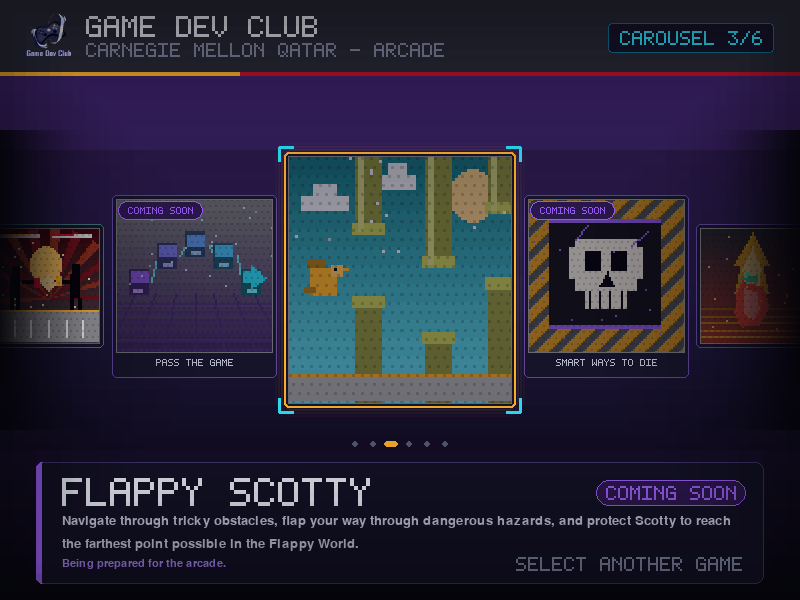
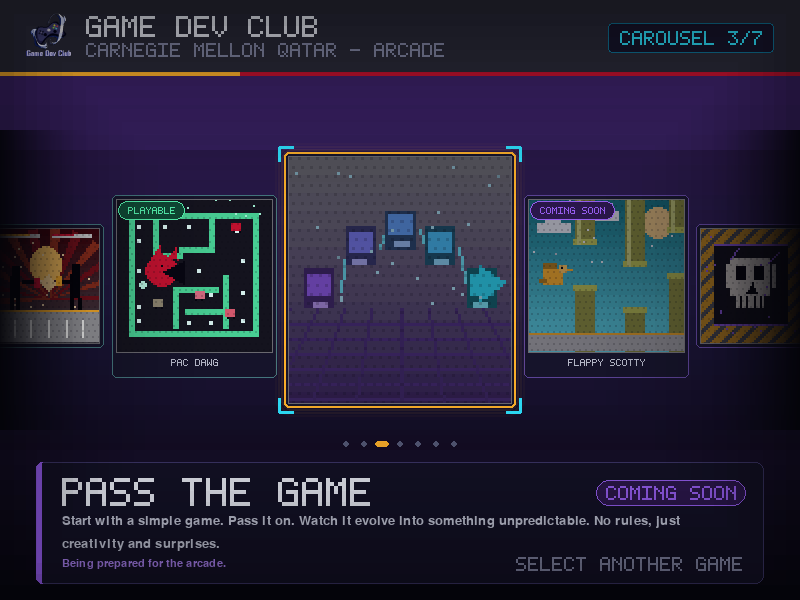
feat: add PacDawg to the gallery with a new maze motif
Adds PacDawg (GDC-CMU/PacDawg) as a launchable seventh game, alongside
Street Fighter. Implements a new 'maze' card-art motif in
launcher/ui/art.py and registers it in launcher/manifest.py's
SUPPORTED_MOTIFS. Regenerates the four preview screenshots and updates
the tests and README wording that pinned the previous game count.

diff --git a/launcher/ui/art.py b/launcher/ui/art.py
@@ -373,6 +373,97 @@ def _motif_orbit(surface: pygame.Surface, colors: tuple[Color, Color, Color], rn
     )
 
 
+def _motif_maze(surface: pygame.Surface, colors: tuple[Color, Color, Color], rng: random.Random) -> None:
+    """Maze corridors, scattered kibble and a chomping terrier -- Pac Dawg."""
+    primary, secondary, dark = colors
+    surface.fill(shade(dark, 1.05))
+
+    # Maze walls: an outer loop plus a handful of L-shaped partitions, which
+    # reads as "maze" without becoming a busy full grid of lines.
+    wall = shade(primary, 0.85)
+    _rect(surface, 0.08, 0.10, 0.84, 0.04, wall)
+    _rect(surface, 0.08, 0.86, 0.84, 0.04, wall)
+    _rect(surface, 0.08, 0.10, 0.04, 0.80, wall)
+    _rect(surface, 0.88, 0.10, 0.04, 0.80, wall)
+    _rect(surface, 0.24, 0.10, 0.04, 0.30, wall)
+    _rect(surface, 0.24, 0.36, 0.20, 0.04, wall)
+    _rect(surface, 0.60, 0.10, 0.04, 0.26, wall)
+    _rect(surface, 0.40, 0.32, 0.24, 0.04, wall)
+    _rect(surface, 0.36, 0.58, 0.04, 0.28, wall)
+    _rect(surface, 0.36, 0.58, 0.30, 0.04, wall)
+    _rect(surface, 0.68, 0.50, 0.04, 0.36, wall)
+    _rect(surface, 0.44, 0.72, 0.28, 0.04, wall)
+
+    # Kibble pellets scattered along the open corridors.
+    pellet = mix(PALETTE["bone"], primary, 0.15)
+    for fx, fy in (
+        (0.14, 0.18), (0.14, 0.26), (0.14, 0.46), (0.14, 0.70), (0.14, 0.78),
+        (0.30, 0.18), (0.46, 0.18), (0.52, 0.46), (0.60, 0.62), (0.76, 0.20),
+        (0.80, 0.40), (0.80, 0.60), (0.80, 0.78), (0.46, 0.80), (0.60, 0.80),
+    ):
+        _rect(surface, fx, fy, 0.03, 0.03, pellet)
+
+    # A bigger power-kibble, lower-left.
+    _ellipse(surface, 0.145, 0.545, 0.06, 0.06, mix(PALETTE["bone"], primary, 0.35))
+
+    # Four small rival chasers -- "four rivals hunt him down" -- evenly spread
+    # so none crowds Pac-Dawg himself.
+    rival_tints = (
+        secondary,
+        mix(secondary, PALETTE["bone"], 0.4),
+        mix(secondary, primary, 0.5),
+        shade(secondary, 1.3),
+    )
+    for tint, (fx, fy) in zip(
+        rival_tints, ((0.74, 0.16), (0.50, 0.60), (0.24, 0.66), (0.70, 0.72))
+    ):
+        _rect(surface, fx, fy, 0.07, 0.055, tint)
+        _rect(surface, fx + 0.008, fy + 0.05, 0.016, 0.016, shade(dark, 0.85))
+        _rect(surface, fx + 0.045, fy + 0.05, 0.016, 0.016, shade(dark, 0.85))
+
+    # Pac-Dawg: a round chomping head with two terrier ears, mid-corridor.
+    head_x, head_y, radius = 0.30, 0.48, 0.11
+    mouth = math.radians(32)
+    _ellipse(
+        surface,
+        head_x - radius,
+        head_y - radius,
+        radius * 2,
+        radius * 2,
+        secondary,
+    )
+    _polygon(
+        surface,
+        [
+            (head_x, head_y),
+            (head_x + radius * 1.2, head_y - radius * math.sin(mouth) * 1.3),
+            (head_x + radius * 1.2, head_y + radius * math.sin(mouth) * 1.3),
+        ],
+        shade(dark, 0.95),
+    )
+    _polygon(
+        surface,
+        [
+            (head_x - 0.07, head_y - radius + 0.01),
+            (head_x - 0.025, head_y - radius - 0.07),
+            (head_x + 0.005, head_y - radius + 0.02),
+        ],
+        secondary,
+    )
+    _polygon(
+        surface,
+        [
+            (head_x + 0.03, head_y - radius + 0.015),
+            (head_x + 0.075, head_y - radius - 0.055),
+            (head_x + 0.095, head_y - radius + 0.03),
+        ],
+        secondary,
+    )
+    _rect(surface, head_x - 0.015, head_y - radius * 0.45, 0.022, 0.022, shade(dark, 0.8))
+
+    _speckle(surface, rng, mix(primary, PALETTE["bone"], 0.5), 10, ceiling=0.12)
+
+
 MOTIF_RENDERERS = {
     "duel": _motif_duel,
     "relay": _motif_relay,
@@ -380,6 +471,7 @@ MOTIF_RENDERERS = {
     "hazard": _motif_hazard,
     "ember": _motif_ember,
     "orbit": _motif_orbit,
+    "maze": _motif_maze,
 }
 
 

diff --git a/tests/test_gallery.py b/tests/test_gallery.py
@@ -158,12 +158,15 @@ class LoopTests(unittest.TestCase):
 
     def test_coming_soon_card_refuses_to_launch(self) -> None:
         """Criterion E6: pressing launch on a disabled game explains itself."""
-        script = [
-            [key_event(pygame.K_RIGHT)],
-            [key_event(pygame.K_RIGHT, down=False)],
-            [button_event(BUTTON_LAUNCH)],
-            [key_event(pygame.K_ESCAPE)],
-        ]
+        # Step to the first coming-soon entry rather than assuming its index,
+        # since the second card is now the launchable PacDawg.
+        target = next(index for index, game in enumerate(MANIFEST) if not game.launchable)
+        script = []
+        for _ in range(target):
+            script.append([key_event(pygame.K_RIGHT)])
+            script.append([key_event(pygame.K_RIGHT, down=False)])
+        script.append([button_event(BUTTON_LAUNCH)])
+        script.append([key_event(pygame.K_ESCAPE)])
         _, outcome = self.run_session(script)
         self.assertIs(outcome.action, UiAction.QUIT, "a disabled game must not launch")
 

diff --git a/tests/test_manifest.py b/tests/test_manifest.py
@@ -38,16 +38,18 @@ class ShippedManifestTests(unittest.TestCase):
     def test_shipped_manifest_loads(self) -> None:
         manifest = load_manifest(MANIFEST_FILE)
         self.assertEqual(manifest.version, SUPPORTED_MANIFEST_VERSION)
-        self.assertEqual(len(manifest), 6)
+        self.assertEqual(len(manifest), 7)
 
     def test_shipped_manifest_has_unique_ids(self) -> None:
         manifest = load_manifest(MANIFEST_FILE)
         ids = [game.id for game in manifest]
         self.assertEqual(len(ids), len(set(ids)))
 
-    def test_only_streetfighter_is_launchable(self) -> None:
+    def test_only_streetfighter_and_pacdawg_are_launchable(self) -> None:
         manifest = load_manifest(MANIFEST_FILE)
-        self.assertEqual([game.id for game in manifest.launchable], ["streetfighter"])
+        self.assertEqual(
+            [game.id for game in manifest.launchable], ["streetfighter", "pacdawg"]
+        )
 
     def test_every_game_has_distinct_card_art(self) -> None:
         manifest = load_manifest(MANIFEST_FILE)

diff --git a/launcher/manifest.py b/launcher/manifest.py
@@ -52,6 +52,7 @@ SUPPORTED_MOTIFS: tuple[str, ...] = (
     "hazard",
     "ember",
     "orbit",
+    "maze",
 )
 
 _ID_PATTERN = re.compile(r"^[a-z0-9][a-z0-9-]{1,38}[a-z0-9]$")

diff --git a/README.md b/README.md
@@ -304,7 +304,7 @@ The rules that follow from this:
 
 ## Screenshots
 
-Three deliberately different compositions of the same six games, under one
+Three deliberately different compositions of the same seven games, under one
 identical header. All are rendered from the real view code by `python -m
 tools.generate_previews`, at the cabinet's exact 800×600, and a test fails if
 they drift out of date.
@@ -315,7 +315,7 @@ same size, same position. Everything that makes the three modes look
 different lives in the content area below it.
 
 They show the shipped `data/games.json` exactly as a healthy cabinet would --
-one playable game and five in development. Availability lives entirely on the
+two playable games and five in development. Availability lives entirely on the
 per-card badge; nothing here is a mock-up.
 
 `docs/screenshots/render-manifest.json` records the SHA-256 of every PNG, a
